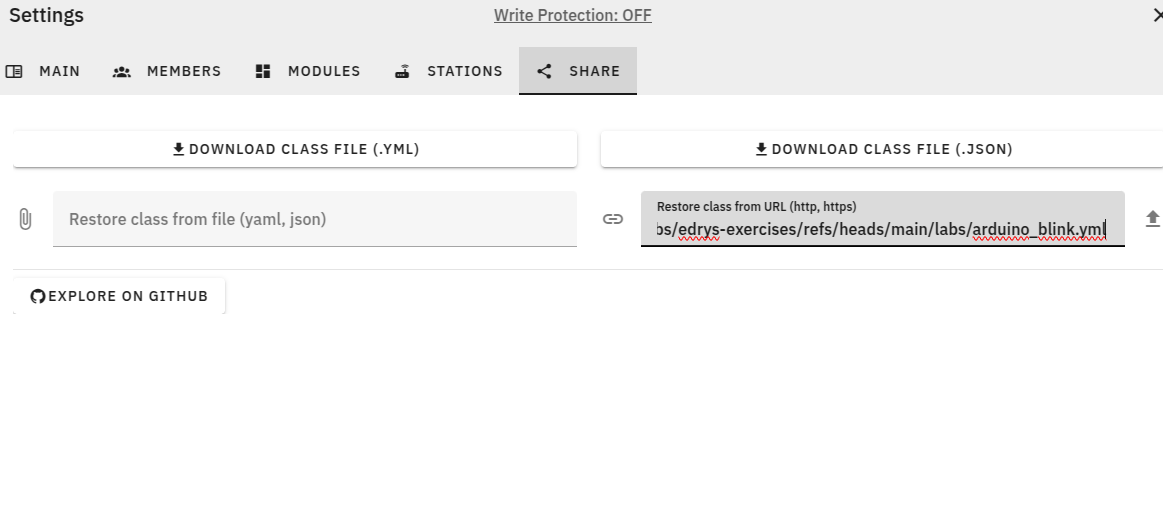
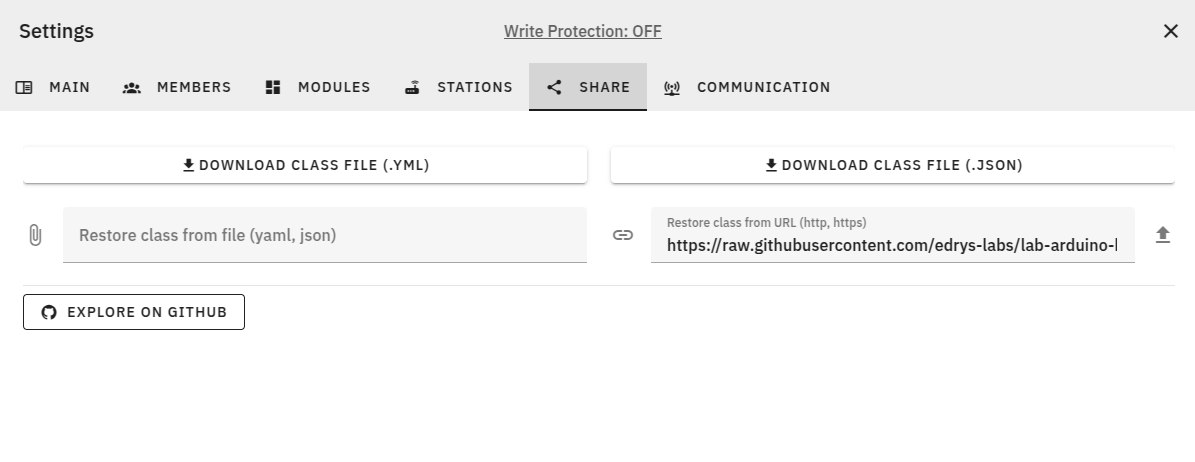
added comm. section

diff --git a/README.md b/README.md
@@ -19,7 +19,7 @@ narrator: UK English Female
 Welcome to the edrys-Lite documentation!
 
     --{{0}}--
-Edrys-Lite provides an intuitive and simplistic way for users to engage with laboratory environments directly from their browser -- nearly no servers required.
+Edrys-Lite provides an intuitive and simple way for users to engage with laboratory environments directly from their browser -- nearly no servers required.
 This documentation will guide you through the process of creating and managing interactive classrooms, developing modules, and exploring the various features of edrys-Lite.
 !?[](videos/edrys_01-0.webm)
 
@@ -56,7 +56,7 @@ The modular architecture ensures that each module operates as an independent ent
 ### Principles and Technologies
 
     --{{0}}--
-As you will learn later, edrys-Lite employs a modular approach where each module can be interconnected to facilitate interaction and communication among users. The system utilizes a simple publish-subscribe (pub-sub) mechanism to enable real-time message exchange between users, it uses Conflict-Free-Replicated Datatypes (CRDTs) ensuring a synchronized state.
+As you will learn later, edrys-Lite employs a modular approach where each module can be interconnected to facilitate interaction and communication among users. The system utilizes a simple publish-subscribe (pub-sub) mechanism to enable real-time message exchange between users, and it uses Conflict-Free-Replicated Datatypes (CRDTs) ensuring a synchronized state.
 !?[](videos/edrys_04-0.webm)
 
 ### WebRTC Communication
@@ -199,7 +199,7 @@ Bob 👨🏾💻
 __ Implementations__
 
    --{{6}}--
-There are several libraries and frameworks that provide CRDT implementations for various data structures, including sets, maps, and lists. However we apply Yjs, a popular CRDT library that offers a wide range of data types and synchronization mechanisms. Yjs is designed to work seamlessly with WebRTC and other real-time communication protocols, making it an ideal choice for building collaborative applications that require consistent state synchronization across multiple users.
+There are several libraries and frameworks that provide CRDT implementations for various data structures, including sets, maps, and lists. However, we apply Yjs, a popular CRDT library that offers a wide range of data types and synchronization mechanisms. Yjs is designed to work seamlessly with WebRTC and other real-time communication protocols, making it an ideal choice for building collaborative applications that require consistent state synchronization across multiple users.
 
 
 - [Automerge](https://automerge.org)
@@ -261,13 +261,13 @@ The teacher is responsible for creating a classroom and can also open a station.
 ### Adding Meta Information
 
     --{{0}}--
-If you click onto the `Settings` button, the main settings will be shown. Here you can reference a logo add a description to your classroom as well as an descriptive title. The number of room defines the initial number of rooms in the classroom, only teachers can add more rooms manually.
+If you click onto the `Settings` button, the main settings will be shown. Here you can reference a logo, add a description to your classroom as well as a descriptive title. The number of room defines the initial number of rooms in the classroom, only teachers can add more rooms manually.
 
       {{0}}
 ![Add Meta Information](images/main-settings.png)
 
     --{{1}}--
-These meta information are also shown in the classroom overview.
+These metadata are also shown in the classroom overview.
 So you can come back and revisit the classroom later, the configuration is stored within the browser.
 
       {{1}}
@@ -286,7 +286,7 @@ You can add them by their unique user ID, which is displayed in the top right co
     --{{1}}--
 By default everyone who knows the classroom URL can join the classroom as a student.
 If you add teacher IDs, these users will also have access to the settings to make modifications.
-If you add student IDs, you restrict the access to the rooms, all other can still join the classroom, but they are not allowed anymore to make modifications. They will become only visitors who can only watch, but all of their messages and state changes will be blocked.
+If you add student IDs, you restrict the access to the rooms, all others can still join the classroom, but they are not allowed anymore to make modifications. They will become only visitors who can only watch, but all of their messages and state changes will be blocked.
 
 
 ### Adding Modules
@@ -314,6 +314,9 @@ After adding a module, you can modify where it will be shown (lobby/station), ad
       {{3}}
 ![Add Module](images/add-module-2.png)
 
+{{3}}
+![Add Module](images/add-module-3.png)
+
     --{{4}}--
 You can also drag and drop the modules to rearrange them in the classroom.
 
@@ -332,7 +335,7 @@ Some of the most used edrys modules are:
 ### Stations
 
     --{{0}}--
-Well as mentioned earlier, a station is a special room that can be opened to interact with hardware or to provide a special service.
+Well, as mentioned earlier, a station is a special room that can be opened to interact with hardware or to provide a special service.
 Hence, the URL looks a bit different, instead of classroom it is a station.
 Therefore the browser will know that it has to operate in another mode.
 
@@ -340,7 +343,7 @@ Therefore the browser will know that it has to operate in another mode.
 
     --{{1}}--
 The station will be shown as a separate room in the classroom, and students can interact with it by clicking on the room.
-Additionally every station has its own user, which is displayed in the right.
+Additionally, every station has its own user, which is displayed on the right.
 By changing the station name also the user name will be changed.
 You can open multiple stations, in parallel on different devices to have multiple hardware resources available.
 When the station URL is closed, the corresponding room will automatically disappear from the class.
@@ -385,7 +388,7 @@ Thus, by clicking onto the `Debug` button, you can see the current state of the 
 ![Debug recording](images/debug1.png)
 
     --{{2}}--
-All of these records will be stored in the browser and can be later inspected and replayed.
+All of these records will be stored in the browser and can later be inspected and replayed.
 
       {{2}}
 ![Debug inspection](images/debug2.png)
@@ -395,11 +398,11 @@ All of these records will be stored in the browser and can be later inspected an
 #### Example Arduino Remote Lab
 
     --{{0}}--
-An example use case of stations is to create a remote Arduino Lab, where students can remotely interact with an Arduino (upload code to it and see the result through a camera) that is physically hosted somewhere else (eg. university grounds).
+An example use case of stations is to create a remote Arduino Lab, where students can remotely interact with an Arduino (upload code to it and see the result through a camera) that is physically hosted somewhere else (e.g. university grounds).
 In this example, a university would like to allow its students access to their fleet of lab devices remotely, removing any need for students to be physically present to experiment with the devices.
 
     --{{1}}--
-To achieve this with Edrys, each Arduino would be connected to a computer with internet access (in this example a Raspberry Pi), and a station would be open on the each computer's browser.
+To achieve this with Edrys, each Arduino would be connected to a computer with internet access (in this example a Raspberry Pi), and a station would be opened on each computer's browser.
 We can use a USB webcam with the [Station-Stream](https://github.com/edrys-labs/module-station-stream) module to let students see the Arduino, the [Code Editor](https://github.com/edrys-labs/module-editor) module to allow students to upload code to it, and the [PyxTerm.js Terminal](https://github.com/edrys-labs/module-pyxtermjs) module, which needs a simple server running locally to allow the Arduino to communicate with the browser.
 
       {{1}}
@@ -416,7 +419,7 @@ The overall setup for one station could look like this:
 </div>
 
     --{{3}}--
-Overall, this allows easy set up of remote labs without configuring security, servers, port forwarding, or any other infrastructure.
+Overall, this allows easy setup of remote labs without configuring security, servers, port forwarding, or any other infrastructure.
 All that is needed is a browser running, which can be repeated for any number of stations.
 This produces a portable, scalable, and easy-to-share setup that can be replicated even by non-technical teachers.
 The same principles apply to any other lab devices (since modules can be reused, combined, or developed to accommodate any setup).
@@ -458,7 +461,7 @@ modules:
 ```
 
     --{{2}}--
-You can restore this configuration either from your you local file system or if it is hosted somewhere on the web, then you can simply paste the URL of the file and restore it from the web.
+You can restore this configuration either from your local file system or if it is hosted somewhere on the web, then you can simply paste the URL of the file and restore it from the web.
 
     --{{3}}--
 Some ready-to-use classroom configurations are available in the following repositories (You can also just click the deploy-button of the desired configuration):
@@ -467,7 +470,7 @@ Some ready-to-use classroom configurations are available in the following reposi
 https://github.com/topics/edrys-lab
 
     --{{4}}--
-Deploy-buttons are a shortcut to create a new classroom with the configuration of the repository. The only relevant part is the URL of the configuration file, which is appended to `https://edrys-labs.github.io/?/deploy/`.
+Deploy buttons are a shortcut to create a new classroom with the configuration of the repository. The only relevant part is the URL of the configuration file, which is appended to `https://edrys-labs.github.io/?/deploy/`.
 This will instruct edrys-Lite to create a new classroom with the configuration fetched from the given URL.
 
       {{4}}
@@ -480,6 +483,27 @@ You can try this out by yourself by clicking on the following button:
 
       {{5}}
 [<img src="https://img.shields.io/badge/%F0%9F%9A%80%20-%20Deploy%20Lab%20-%20light?style=plastic" height="25" />](https://edrys-labs.github.io/?/deploy/https://raw.githubusercontent.com/edrys-labs/lab-web-serial/main/laboratory/micropython.yaml)
+
+
+### Changing the communication protocol
+
+    --{{0}}--
+By default, edrys-Lite uses WebRTC for real-time communication between users. However, under certain network conditions, such as when users are behind strict firewalls or NATs, WebRTC may not work reliably.
+
+    --{{1}}--
+In such cases, you can switch to using a WebSocket-based communication protocol by changing the communication method in the classroom settings. 
+
+    {{1}}
+![Change Communication Protocol](images/communication-ws.png)
+
+    --{{2}}--
+For both WebRTC and WebSocket communication, the user can optionally modify the configuration settings, such as the signaling server URL for WebRTC or the WebSocket server URL for WebSocket communication. If the configuration is not modified, the default settings will be used.
+
+    {{2}}
+![Change Communication Protocol](images/communication-webrtc.png)
+
+    --{{3}}--
+The classroom URL will also change to reflect the communication protocol used, which is important for other users to connect to the classroom.
 
 
 ## Developing Modules
@@ -822,7 +846,7 @@ Edrys.getItem("key");
 
     --{{0}}--
 Edrys.js initializes by listening to message events from its parent frame and sets up reactive state management using Yjs.
-It uses therefore the same datatypes as Yjs.
+It therefore uses the same datatypes as Yjs.
 
 Yjs documentation: https://docs.yjs.dev/api/shared-types
 
@@ -901,49 +925,59 @@ Edrys.clearState("key");
 A module can also share a stream of data. This can be used to share video, audio... with other users in the room.
 
     {{1}}
+Streams can be shared by either using WebRTC or WebSockets. It is recommended to use WebRTC for real-time streaming, as it provides better performance and lower latency.
+However, if WebRTC is not available, you can use WebSockets as a fallback.
+
+    {{2}}
 <section>
 
-##### `Edrys.sendStream(stream)`
+##### `Edrys.sendStream(stream, settings)`
 
-__Sends a stream to all users.__
+__Sends a stream to all users in the room.__
 
-    --{{1}}--
-This method transmits a media stream, such as video or audio, to all connected users.
-It allows you to share live content -- captured using the browser’s media devices -- with everyone, ensuring that the stream is broadcasted in real time across the session.
+    --{{2}}--
+This method transmits a media stream, such as video or audio, to all connected users in the current room.
+You can configure the streaming method and WebSocket URL through the optional settings parameter.
 
 ```javascript
-navigator.mediaDevices.getUserMedia({
-  video: Edrys.module.stationConfig?.video ?? true,
-  audio: Edrys.module.stationConfig?.audio ?? true,
-}).then(async (stream) => {
-  videoElement.srcObject = stream;
-  videoElement.autoplay = true;
-    
-  await Edrys.sendStream(stream);
-  ...
+navigator.mediaDevices
+    .getUserMedia(constraints)
+    .then(async (stream) => {
+      videoElement.srcObject = stream;
+      videoElement.autoplay = true;
+      loaderElement.classList.add("hidden");
+
+      currentStream = await Edrys.sendStream(stream, {
+        method: streamMethod,
+        websocketUrl: websocketUrl,
+      });
+    })
 ```
 
 ---
 
 </section>
 
-    {{2}}
+    {{3}}
 <section>
 
 ##### `Edrys.onStream(handler)`
 
 __Registers a handler for receiving streams.__
 
-    --{{2}}--
-This function registers a callback to process incoming media streams from other users.
-When a stream arrives, the handler receives both the stream and any relevant settings, enabling you to display or transform the media content appropriately within your application.
+    --{{3}}--
+This function registers a callback to handle incoming media streams from other users in the room.
+The handler receives the stream object and associated settings when a new stream is received, allowing your module to process, display, or manipulate the incoming media content.
 
 ```javascript
 Edrys.onStream((stream, settings) => {
-  videoElement.srcObject = stream;
-
-  // A function to apply video settings (only video/audio, rotate...)
-  applyVideoTransform(videoElement, settings);
+    videoElement.srcObject = stream;
+    applyVideoTransform(videoElement, settings);
+}, {
+    method: streamMethod,
+    websocketUrl: websocketUrl,
+}).then((stream) => {
+    currentStream = stream;
 });
 ```
 
